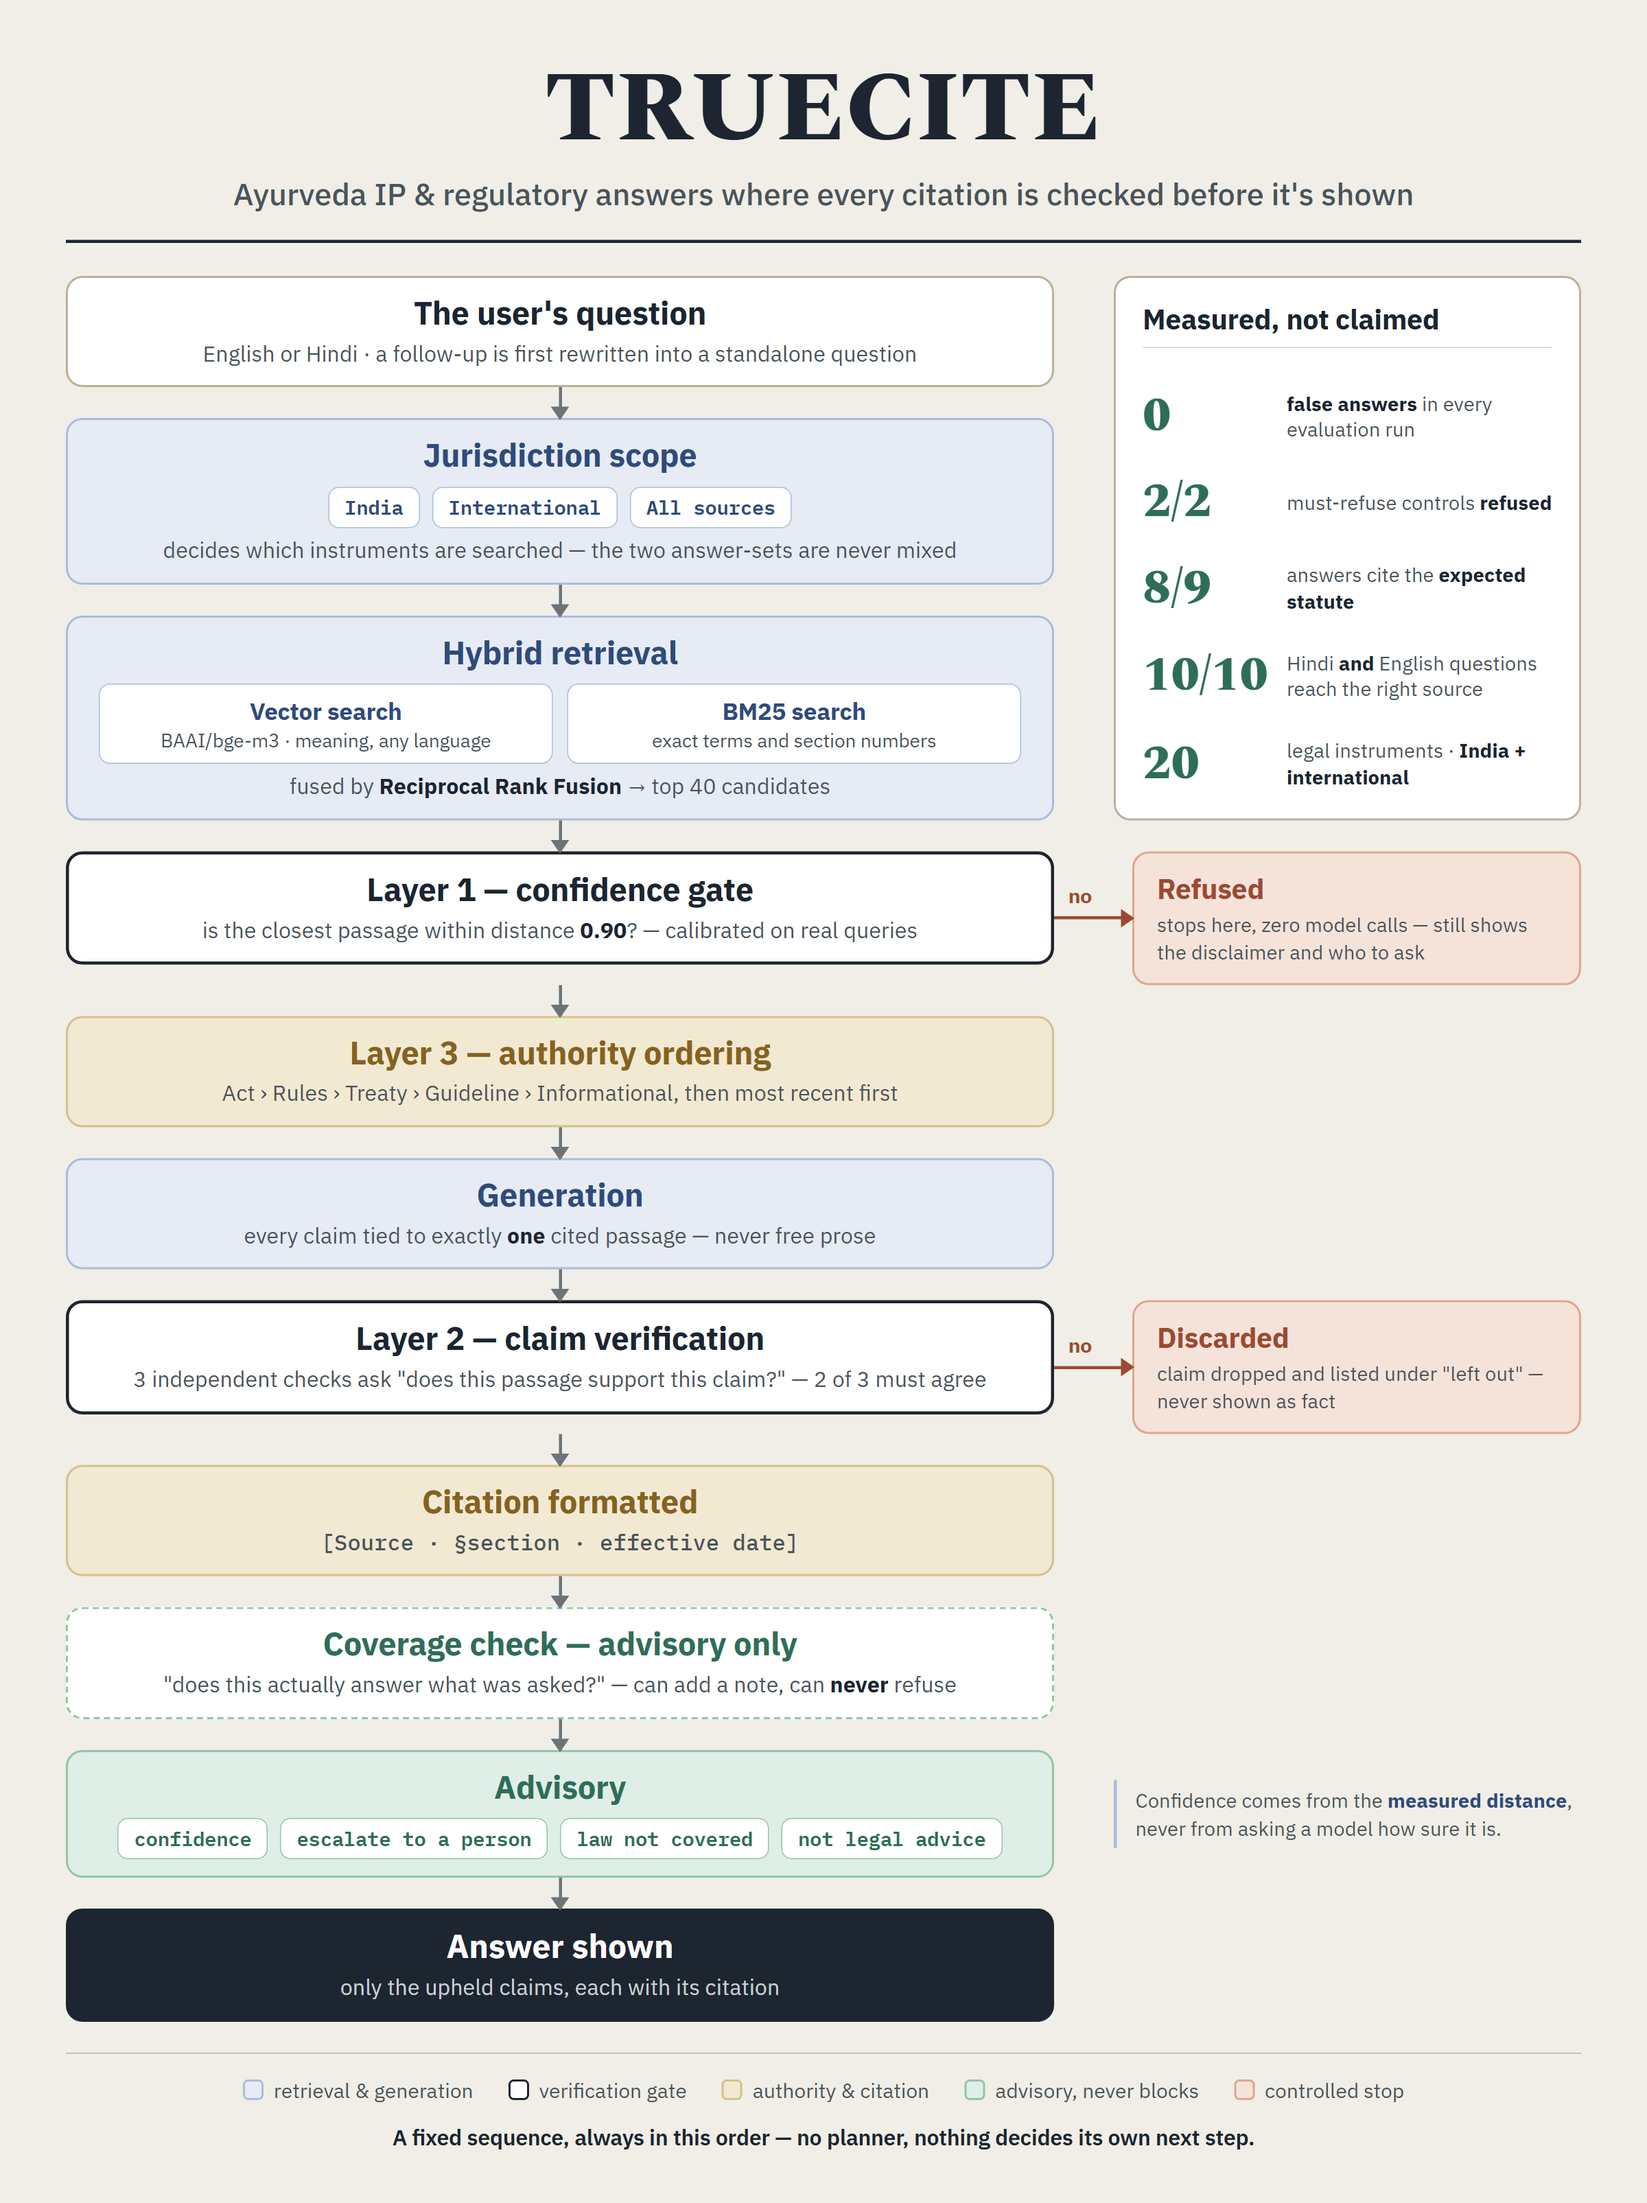
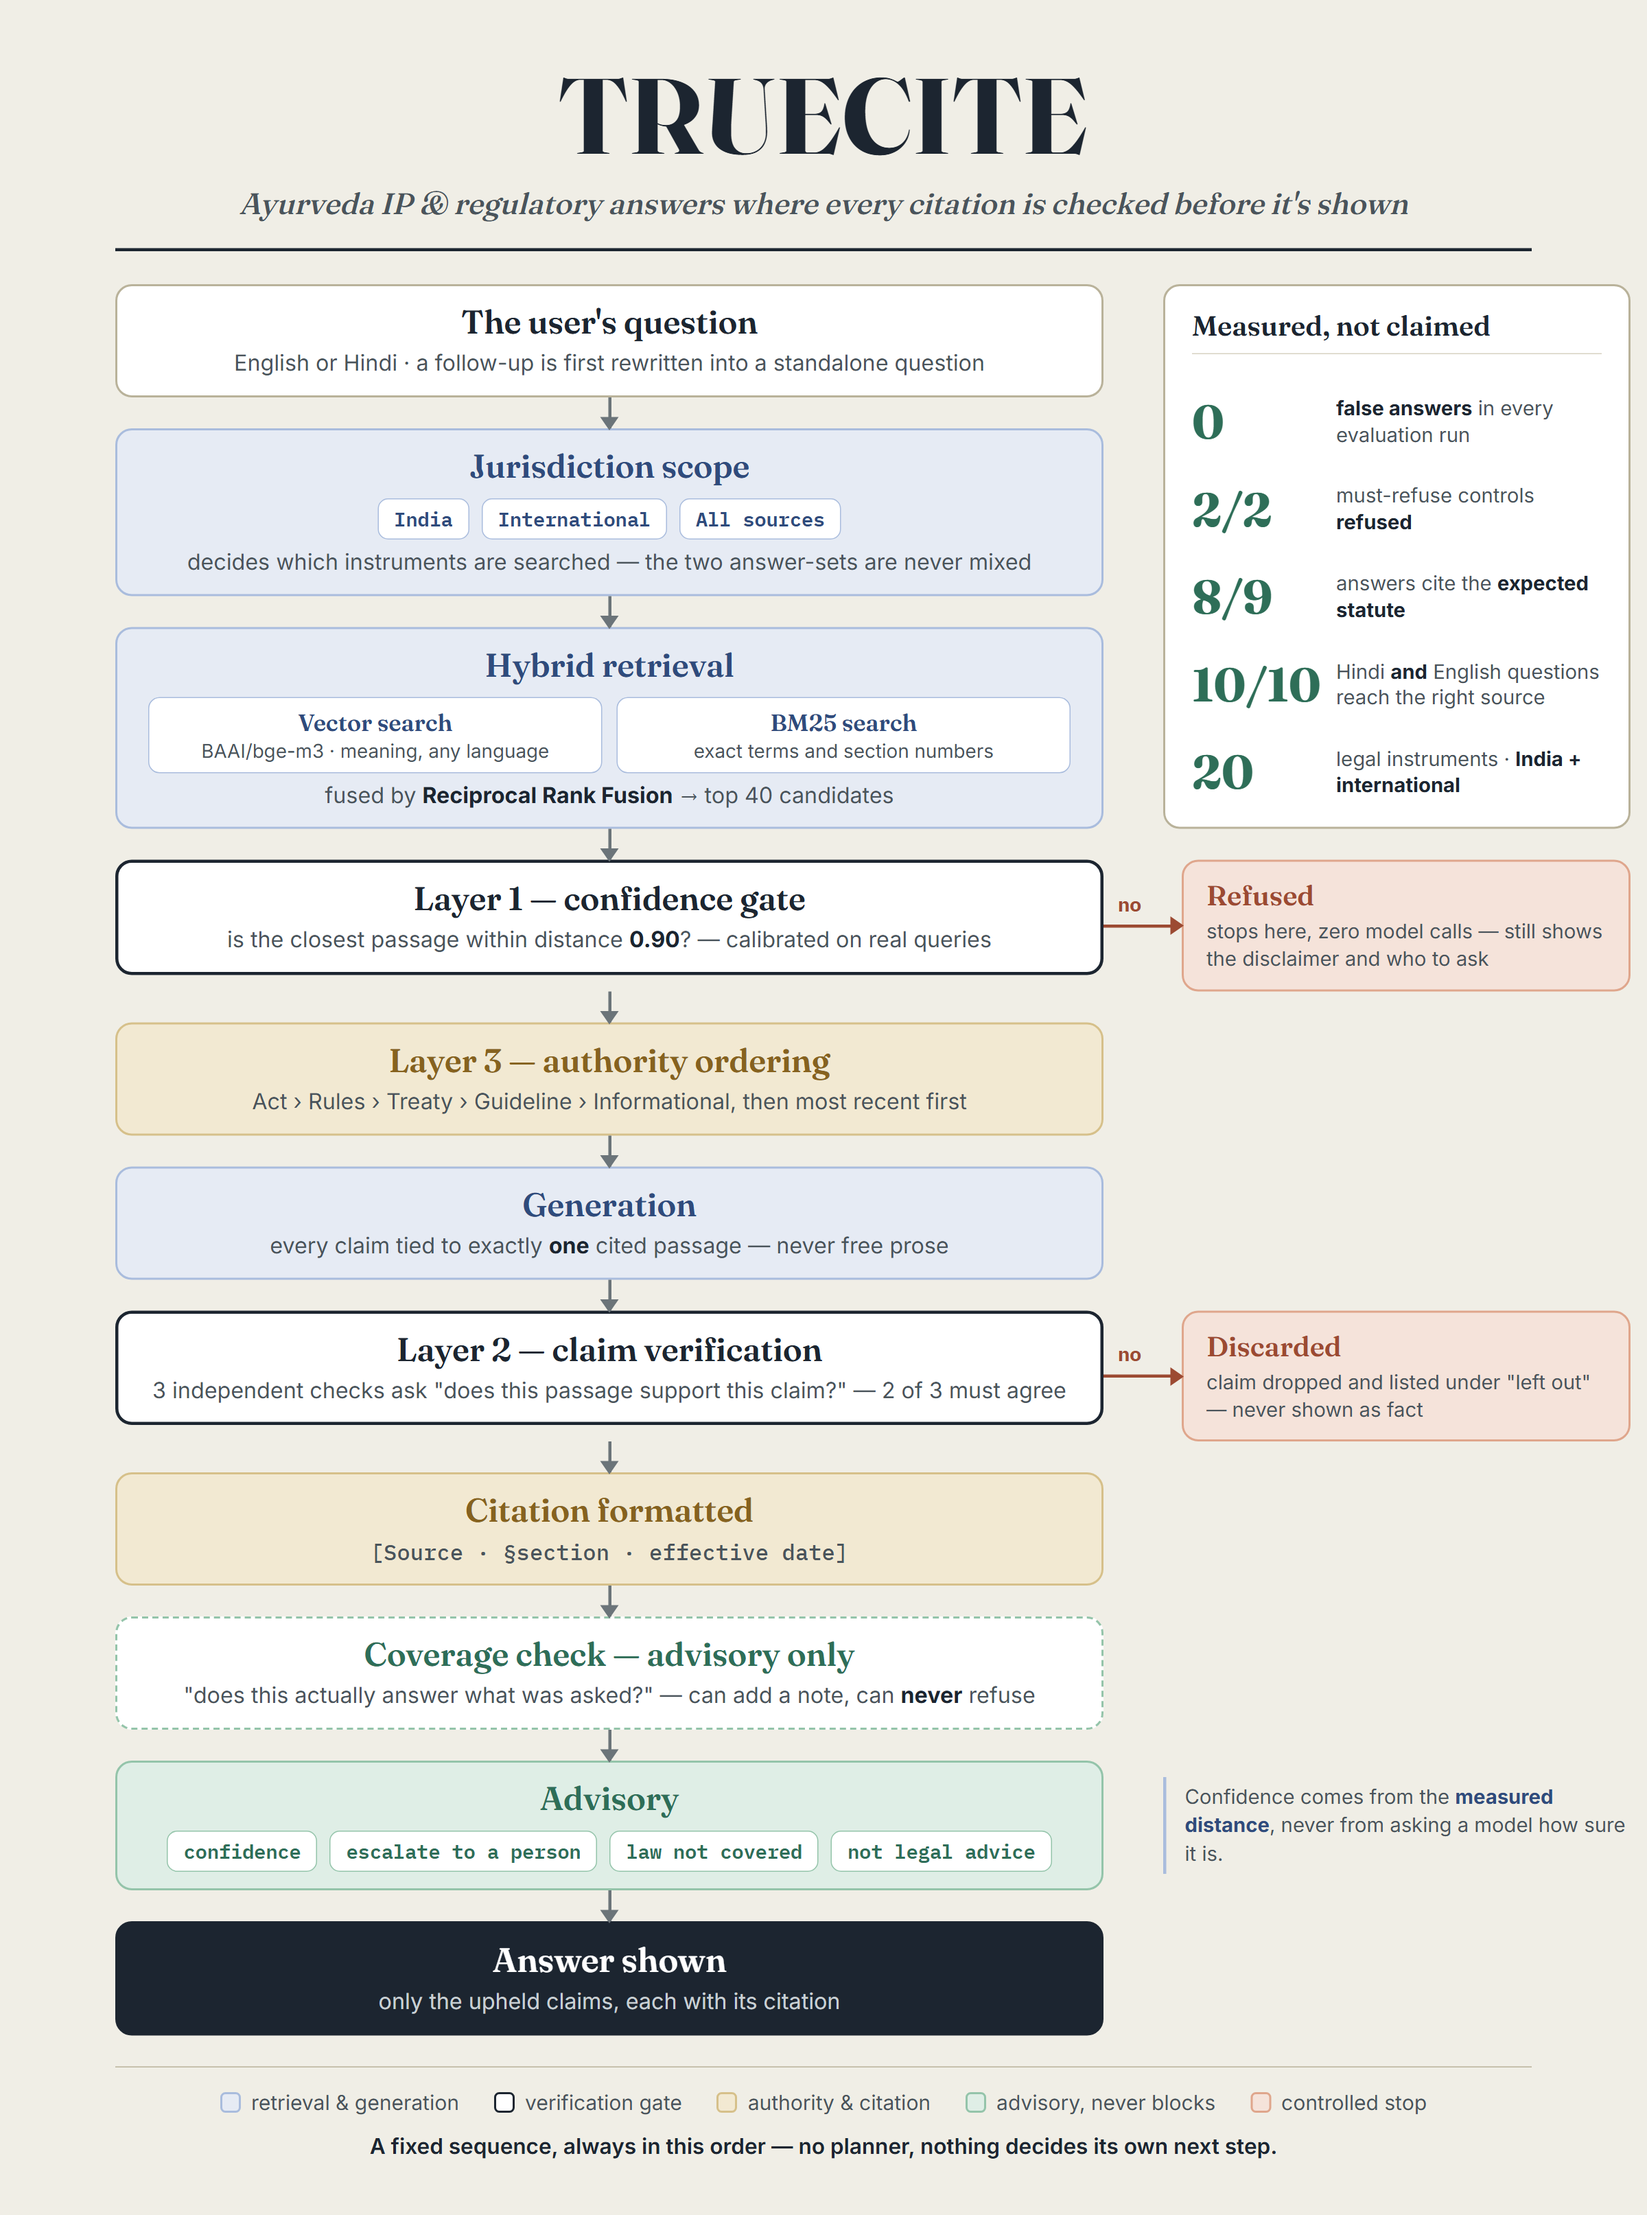
Match poster typography to the app's own fonts; widen side margins

Changed region(s): [[0.0312, 0.0312, 1.0, 0.9969], [0.0312, 0.7165, 0.0938, 0.7788], [0.9375, 0.6231, 0.9688, 0.6542]]

diff --git a/docs/assets/src/pipeline-poster.html b/docs/assets/src/pipeline-poster.html
@@ -4,7 +4,7 @@
 <meta charset="utf-8">
 <title>TrueCite pipeline</title>
 <style>
-  @import url('https://fonts.googleapis.com/css2?family=Spectral:wght@600;700;800&family=IBM+Plex+Sans:wght@400;500;600;700&family=IBM+Plex+Mono:wght@500;600;700&display=swap');
+  @import url('https://fonts.googleapis.com/css2?family=Fraunces:opsz,wght@9..144,500;9..144,600;9..144,700;9..144,800&family=Inter:wght@400;500;600;700&family=IBM+Plex+Mono:wght@500;600;700&display=swap');
 
   :root{
     --paper:#F0EEE6; --panel:#FFFFFF; --ink:#1C2530; --ink-soft:#4A545B; --ink-faint:#737D83;
@@ -17,12 +17,12 @@
   *{ box-sizing:border-box; }
   html,body{ margin:0; padding:0; }
   body{ width:1600px; background:var(--paper); color:var(--ink);
-        font-family:'IBM Plex Sans',system-ui,sans-serif; -webkit-font-smoothing:antialiased; }
-  .sheet{ padding:58px 64px 50px; }
+        font-family:'Inter',system-ui,sans-serif; -webkit-font-smoothing:antialiased; text-rendering:optimizeLegibility; }
+  .sheet{ padding:60px 112px 54px; }
 
   header{ text-align:center; padding-bottom:26px; border-bottom:3px solid var(--ink); margin-bottom:32px; }
-  h1{ font-family:'Spectral',Georgia,serif; font-weight:800; font-size:96px; line-height:1; letter-spacing:.01em; margin:0 0 14px; }
-  .dek{ font-size:30px; color:var(--ink-soft); margin:0; font-weight:500; }
+  h1{ font-family:'Fraunces',Georgia,serif; font-optical-sizing:auto; font-variation-settings:'opsz' 144; font-weight:700; font-size:104px; line-height:1; letter-spacing:.005em; margin:0 0 16px; }
+  .dek{ font-family:'Fraunces',Georgia,serif; font-optical-sizing:auto; font-variation-settings:'opsz' 28; font-style:italic; font-size:29px; color:var(--ink-soft); margin:0; font-weight:500; }
 
   /* Two columns: the flow, and what branches off it. Every box row is
      followed by an arrow row, so side boxes sit exactly level with the
@@ -32,7 +32,7 @@
   .side{ grid-column:2; display:flex; align-items:center; }
 
   .box{ border-radius:16px; border:2px solid; padding:16px 30px; text-align:center; }
-  .box .t{ font-size:31px; font-weight:700; line-height:1.15; }
+  .box .t{ font-family:'Fraunces',Georgia,serif; font-optical-sizing:auto; font-variation-settings:'opsz' 40; font-size:32px; font-weight:600; line-height:1.16; letter-spacing:-.003em; }
   .box .d{ font-size:21.5px; line-height:1.38; color:var(--ink-soft); margin-top:7px; }
   .box .d b{ color:var(--ink); }
 
@@ -47,7 +47,7 @@
   .dash   { background:var(--panel); border-color:var(--sage-line); border-style:dashed; }
   .dash .t{ color:var(--sage); }
   .final  { background:var(--ink); border-color:var(--ink); }
-  .final .t{ color:#fff; font-size:32px; }
+  .final .t{ font-family:'Fraunces',Georgia,serif; font-optical-sizing:auto; font-variation-settings:'opsz' 40; color:#fff; font-size:33px; font-weight:600; }
   .final .d{ color:#C9D0D4; }
 
   .chips{ display:flex; justify-content:center; gap:12px; margin-top:13px; flex-wrap:wrap; }
@@ -58,7 +58,7 @@
 
   .pair{ display:grid; grid-template-columns:1fr 1fr; gap:14px; margin-top:13px; }
   .pair > div{ background:var(--panel); border:1.5px solid var(--indigo-line); border-radius:11px; padding:10px 12px; }
-  .pair .pt{ font-size:23px; font-weight:700; color:var(--indigo); }
+  .pair .pt{ font-family:'Fraunces',Georgia,serif; font-optical-sizing:auto; font-variation-settings:'opsz' 28; font-size:23px; font-weight:600; color:var(--indigo); }
   .pair .pd{ font-size:18.5px; color:var(--ink-soft); margin-top:2px; }
 
   /* vertical arrow */
@@ -74,15 +74,15 @@
   .branch span{ position:absolute; left:14px; top:-32px; font-family:'IBM Plex Mono',monospace;
                 font-size:19px; font-weight:700; color:var(--rust); }
   .stop{ flex:1; background:var(--rust-soft); border:2px solid var(--rust-line); border-radius:16px; padding:16px 22px; }
-  .stop .t{ font-size:27px; font-weight:700; color:var(--rust); }
+  .stop .t{ font-family:'Fraunces',Georgia,serif; font-optical-sizing:auto; font-variation-settings:'opsz' 32; font-size:27px; font-weight:600; color:var(--rust); }
   .stop .d{ font-size:19.5px; line-height:1.38; color:var(--ink-soft); margin-top:5px; }
 
   /* results panel */
   .results{ margin-left:58px; flex:1; align-self:stretch; background:var(--panel); border:2px solid var(--line-strong);
             border-radius:16px; padding:22px 26px; display:flex; flex-direction:column; justify-content:space-between; }
-  .results h3{ margin:0 0 12px; font-size:27px; font-weight:700; padding-bottom:10px; border-bottom:1.5px solid var(--line); }
+  .results h3{ font-family:'Fraunces',Georgia,serif; font-optical-sizing:auto; font-variation-settings:'opsz' 32; margin:0 0 12px; font-size:27px; font-weight:600; padding-bottom:10px; border-bottom:1.5px solid var(--line); }
   .r{ display:flex; align-items:center; gap:16px; padding:6px 0; }
-  .r .n{ font-family:'Spectral',Georgia,serif; font-weight:800; font-size:46px; line-height:1; color:var(--sage); min-width:124px; }
+  .r .n{ font-family:'Fraunces',Georgia,serif; font-optical-sizing:auto; font-variation-settings:'opsz' 60; font-weight:700; font-size:46px; line-height:1; color:var(--sage); min-width:124px; }
   .r .l{ font-size:19.5px; line-height:1.3; color:var(--ink-soft); }
   .r .l b{ color:var(--ink); }
 

diff --git a/docs/decisions.md b/docs/decisions.md
@@ -108,4 +108,5 @@
 - 2026-09-20: The Phase 18 harness's first `cited_expected` metric was wrong and reported 7/12 where the true figure was 9/9. It matched doc_id words against the rendered citation string, but citations render a document's `short_name`: "GI of Goods Act, 1999" shares no word with `geographical_indications_act_1999`, and "Convention on Biological Diversity" shares none with `cbd_convention`, so those two regimes could never pass however correct the citation was. Both had in fact cited exactly the right provision (§17 and Article 1). Fixed by mapping each claim's `source_index` through the `sources` event to the real doc_id. Worth recording as the second measurement bug of the day, after the top_k=5 baseline: when a number looks worse than the system's behaviour warrants, suspect the instrument before the system.
 - 2026-09-22: Removed the Dockerfile and every remaining deployment artefact (the untracked Hugging Face Space clone, the local image and 15.4 GB of build cache). With hosted deployment permanently abandoned it had no remaining purpose — the committed corpus and index already let a plain `pip install` clone serve immediately — and keeping it implied a supported container path nobody was maintaining. `.env.example` stays because it documents local provider selection, not deployment.
 - 2026-09-22: Redrew the pipeline poster as a flowchart-first 1600x2140 (near 4:5) image with the flow in a wide main column, branches and measured results in a side column, and type sized to read without zooming at LinkedIn's feed width. The previous poster placed a narrow flow in a wide canvas with small text. It now also shows the domain layer the pipeline gained in phases 10-18 — the jurisdiction scope and the advisory — as real stages rather than omitting them.
+- 2026-09-22: Poster typography switched from Spectral/IBM Plex Sans to Fraunces/Inter, matching the live web UI's own font pairing (web/index.html) instead of an unrelated one, and side padding widened from 64px to 112px so the flowchart reads as a card with deliberate margin rather than content run to the canvas edge.
 
